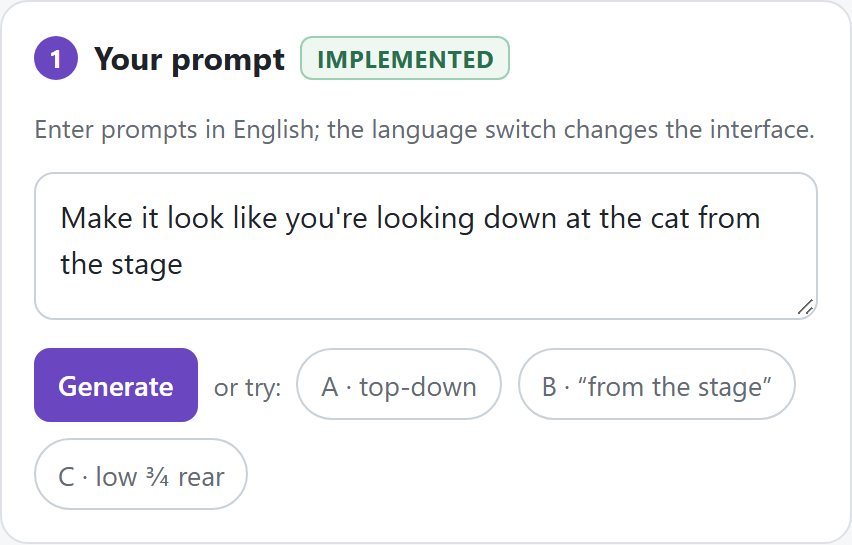
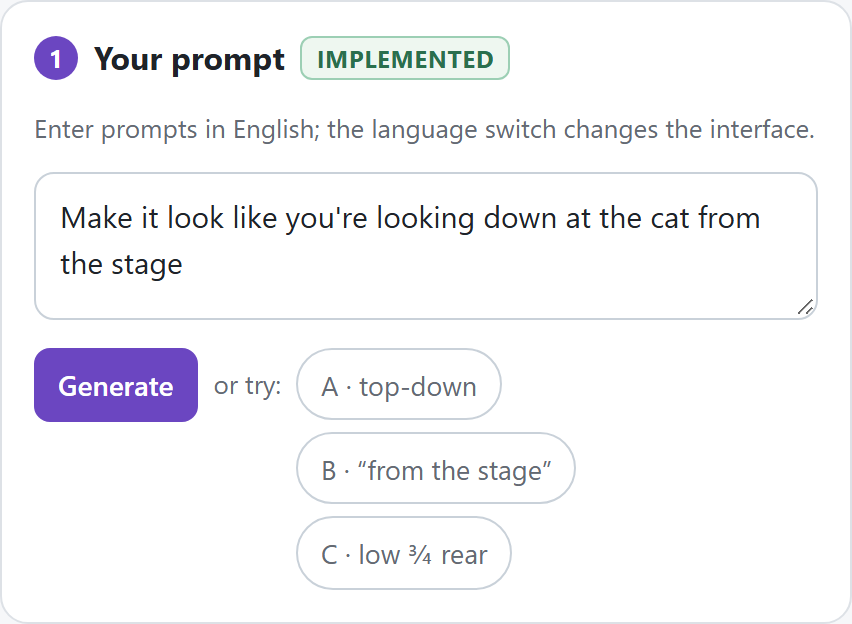
Stack the example prompts beside Generate

diff --git a/prototype/index.html b/prototype/index.html
@@ -37,6 +37,7 @@
   button:hover{background:#f0f2f5;}
   button.primary{background:var(--purple);border-color:var(--purple);color:#fff;font-weight:600;}
   button.primary:hover{background:#5a3aa8;}
+  .examples{display:flex;flex-direction:column;align-items:flex-start;gap:6px;}
   button.chip{border-radius:999px;font-size:13.5px;color:var(--sub);text-align:left;}
   .small{font-size:13px;color:var(--sub);}
   .kv{display:grid;grid-template-columns:118px minmax(0,1fr);gap:6px 10px;margin:0 0 10px;}
@@ -151,11 +152,13 @@
       <p class="small" id="promptLanguageNote">Enter prompts in English; the language switch changes the interface.</p>
       <textarea id="prompt" aria-label="Prompt" placeholder="Describe the image, including the camera angle you want…"></textarea>
       <div class="row" style="margin-top:8px">
-        <button class="primary" id="btnGenerate">Generate</button>
-        <span class="small">or try:</span>
-        <button class="chip" data-example="A photorealistic cat sitting on a carpet, top-down view" title="A photorealistic cat sitting on a carpet, top-down view">A · top-down</button>
-        <button class="chip" data-example="Make it look like you're looking down at the cat from the stage" title="Make it look like you're looking down at the cat from the stage">B · “from the stage”</button>
-        <button class="chip" data-example="A product shot of the cat figurine, low angle, three-quarter rear view" title="A product shot of the cat figurine, low angle, three-quarter rear view">C · low ¾ rear</button>
+        <button class="primary" id="btnGenerate" style="align-self:flex-start">Generate</button>
+        <span class="small" style="align-self:flex-start;margin-top:8px">or try:</span>
+        <div class="examples">
+          <button class="chip" data-example="A photorealistic cat sitting on a carpet, top-down view" title="A photorealistic cat sitting on a carpet, top-down view">A · top-down</button>
+          <button class="chip" data-example="Make it look like you're looking down at the cat from the stage" title="Make it look like you're looking down at the cat from the stage">B · “from the stage”</button>
+          <button class="chip" data-example="A product shot of the cat figurine, low angle, three-quarter rear view" title="A product shot of the cat figurine, low angle, three-quarter rear view">C · low ¾ rear</button>
+        </div>
       </div>
     </section>
 
